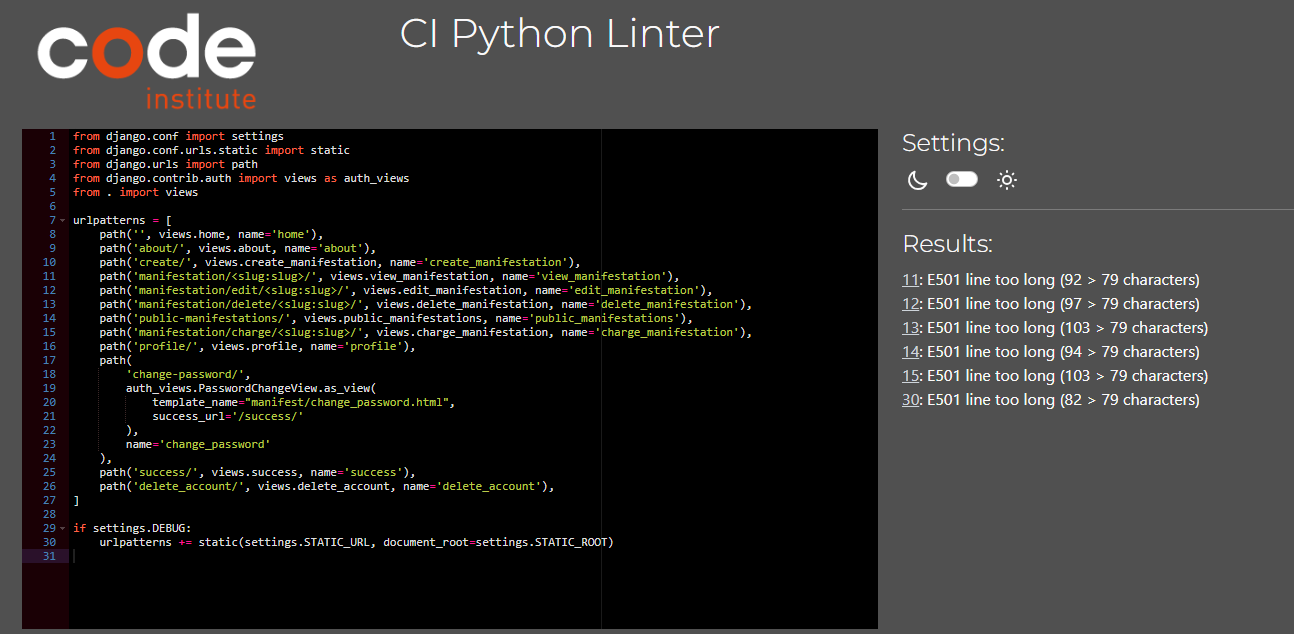
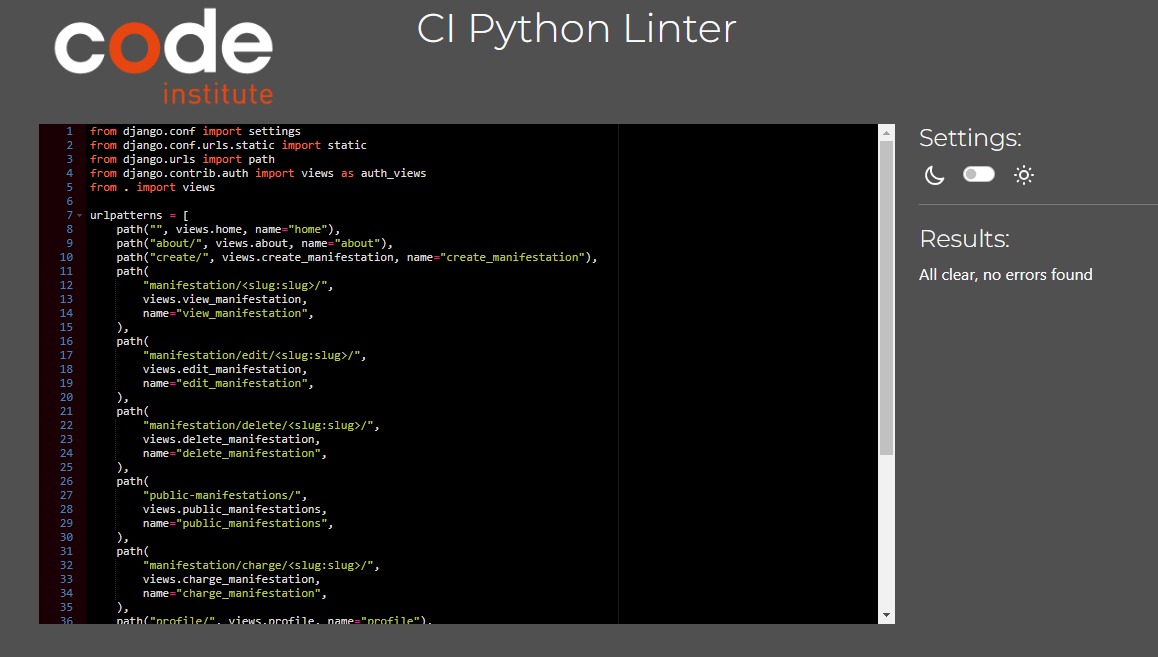
update testing.md

Changed region(s): [[0.0, 0.0, 0.9326, 1.0], [0.3109, 0.0, 0.6528, 0.0899]]

diff --git a/manifest/views.py b/manifest/views.py
@@ -11,126 +11,173 @@ from django.contrib.auth import get_user_model
 
 @login_required
 def home(request):
-    manifestations = Manifestation.objects.filter(
-        owner=request.user
-    ).order_by('created_on')
+    manifestations = Manifestation.objects.filter(owner=request.user).order_by(
+        "created_on"
+    )
 
     for manifestation in manifestations:
-        if manifestation.is_charged and timezone.now() > manifestation.last_charged + timedelta(hours=24):
+        if (
+            manifestation.is_charged
+            and timezone.now()
+            > manifestation.last_charged + timedelta(hours=24)
+        ):
             manifestation.is_charged = False
             manifestation.save()
-        if manifestation.last_charged and timezone.now() > manifestation.last_charged + timedelta(hours=12):
+        if (
+            manifestation.last_charged
+            and timezone.now()
+            > manifestation.last_charged + timedelta(hours=12)
+        ):
             manifestation.can_charge = True
             manifestation.save()
 
     context = {
-        'manifestations': manifestations,
+        "manifestations": manifestations,
     }
 
-    return render(request, 'manifest/home.html', context)
+    return render(request, "manifest/home.html", context)
 
 
 def about(request):
-    return render(request, 'about.html')
+    return render(request, "about.html")
 
 
 @login_required
 def create_manifestation(request):
-    if request.method == 'POST':
+    if request.method == "POST":
         form = ManifestationForm(request.POST)
         if form.is_valid():
             manifestation = form.save(commit=False)
             manifestation.owner = request.user
             manifestation.save()
-            return redirect('view_manifestation', slug=manifestation.slug)
+            return redirect("view_manifestation", slug=manifestation.slug)
     else:
         form = ManifestationForm()
     return render(
-        request, 'manifest/create_manifestation.html', {'form': form})
+        request, "manifest/create_manifestation.html", {"form": form}
+    )
 
 
 def view_manifestation(request, slug):
     manifestation = get_object_or_404(Manifestation, slug=slug)
 
-    if manifestation.owner != request.user and not (manifestation.is_public and manifestation.is_approved):
-        return render(request, 'manifest/forbidden.html')
+    if manifestation.owner != request.user and not (
+        manifestation.is_public and manifestation.is_approved
+    ):
+        return render(request, "manifest/forbidden.html")
 
-    if manifestation.is_charged and timezone.now() > manifestation.last_charged + timedelta(hours=24):
+    if (
+        manifestation.is_charged
+        and timezone.now() > manifestation.last_charged + timedelta(hours=24)
+    ):
         manifestation.is_charged = False
         manifestation.save()
-    if manifestation.last_charged and timezone.now() > manifestation.last_charged + timedelta(hours=12):
+    if (
+        manifestation.last_charged
+        and timezone.now() > manifestation.last_charged + timedelta(hours=12)
+    ):
         manifestation.can_charge = True
         manifestation.save()
     context = {
-        'manifestation': manifestation,
-        'next_charge_time': manifestation.next_charge_time()
+        "manifestation": manifestation,
+        "next_charge_time": manifestation.next_charge_time(),
     }
     return render(
-        request, 'manifest/view_manifestation.html', {'manifestation': manifestation})
+        request,
+        "manifest/view_manifestation.html",
+        {"manifestation": manifestation},
+    )
 
 
 @login_required
 def charge_manifestation(request, slug):
     manifestation = get_object_or_404(Manifestation, slug=slug)
-    if request.method == 'POST':
+    if request.method == "POST":
         manifestation.is_charged = True
         manifestation.can_charge = False
         manifestation.last_charged = timezone.now()
         manifestation.save()
-        return redirect('view_manifestation', slug=manifestation.slug)
+        return redirect("view_manifestation", slug=manifestation.slug)
     return render(
-        request, 'manifest/view_manifestation.html', {'manifestation': manifestation})
+        request,
+        "manifest/view_manifestation.html",
+        {"manifestation": manifestation},
+    )
 
 
 @login_required
 def edit_manifestation(request, slug):
     manifestation = get_object_or_404(Manifestation, slug=slug)
-    if request.method == 'POST':
+    if request.method == "POST":
         form = ManifestationForm(request.POST, instance=manifestation)
         if form.is_valid():
             manifestation.is_approved = False  # Set is_approved to False
             form.save()
             messages.add_message(
-                request, messages.SUCCESS, 'Your manifestation has been updated successfully. If it is set to public, it will be reviewed by an admin.')
-            return redirect('view_manifestation', slug=manifestation.slug)
+                request,
+                messages.SUCCESS,
+                "Your manifestation has been updated successfully. If public, it will be reviewed by an admin.",
+            )
+            return redirect("view_manifestation", slug=manifestation.slug)
     else:
         form = ManifestationForm(instance=manifestation)
-    return render(request, 'manifest/edit_manifestation.html', {'form': form, 'manifestation': manifestation})
+    return render(
+        request,
+        "manifest/edit_manifestation.html",
+        {"form": form, "manifestation": manifestation},
+    )
 
 
 @login_required
 def delete_manifestation(request, slug):
     manifestation = get_object_or_404(Manifestation, slug=slug)
-    if request.method == 'POST':
+    if request.method == "POST":
         manifestation.delete()
         messages.add_message(
-            request, messages.SUCCESS, 'Your manifestation has been deleted successfully.')
-        return redirect('home')  # Redirect to a different view after deletion
-    return render(request, 'manifest/delete_manifestation.html', {'manifestation': manifestation})
+            request,
+            messages.SUCCESS,
+            "Your manifestation has been deleted successfully.",
+        )
+        return redirect("home")  # Redirect to a different view after deletion
+    return render(
+        request,
+        "manifest/delete_manifestation.html",
+        {"manifestation": manifestation},
+    )
 
 
 def public_manifestations(request):
-    manifestations = Manifestation.objects.filter(is_public=True, is_approved=True)
-    return render(request, 'manifest/public_manifestations.html', {'manifestations': manifestations})
+    manifestations = Manifestation.objects.filter(
+        is_public=True, is_approved=True
+    )
+    return render(
+        request,
+        "manifest/public_manifestations.html",
+        {"manifestations": manifestations},
+    )
 
 
 def profile(request):
-    return render(request, 'manifest/profile.html')
+    return render(request, "manifest/profile.html")
 
 
 def change_password(request):
-    return render(request, 'manifest/change_password.html')
+    return render(request, "manifest/change_password.html")
 
 
 def success(request):
-    return render(request, 'manifest/success.html')
+    return render(request, "manifest/success.html")
 
 
 @login_required
 def delete_account(request):
-    if request.method == 'POST':
+    if request.method == "POST":
         user = request.user
         user.delete()
-        messages.add_message(request, messages.SUCCESS, 'Your account has been deleted successfully.')
-        return redirect('home')  # Redirect to home page after deletion
-    return render(request, 'manifest/delete_account_confirm.html')
+        messages.add_message(
+            request,
+            messages.SUCCESS,
+            "Your account has been deleted successfully.",
+        )
+        return redirect("home")  # Redirect to home page after deletion
+    return render(request, "manifest/delete_account_confirm.html")

diff --git a/manifest/urls.py b/manifest/urls.py
@@ -5,26 +5,48 @@ from django.contrib.auth import views as auth_views
 from . import views
 
 urlpatterns = [
-    path('', views.home, name='home'),
-    path('about/', views.about, name='about'),
-    path('create/', views.create_manifestation, name='create_manifestation'),
-    path('manifestation/<slug:slug>/', views.view_manifestation, name='view_manifestation'),
-    path('manifestation/edit/<slug:slug>/', views.edit_manifestation, name='edit_manifestation'),
-    path('manifestation/delete/<slug:slug>/', views.delete_manifestation, name='delete_manifestation'),
-    path('public-manifestations/', views.public_manifestations, name='public_manifestations'),
-    path('manifestation/charge/<slug:slug>/', views.charge_manifestation, name='charge_manifestation'),
-    path('profile/', views.profile, name='profile'),
+    path("", views.home, name="home"),
+    path("about/", views.about, name="about"),
+    path("create/", views.create_manifestation, name="create_manifestation"),
     path(
-        'change-password/',
+        "manifestation/<slug:slug>/",
+        views.view_manifestation,
+        name="view_manifestation",
+    ),
+    path(
+        "manifestation/edit/<slug:slug>/",
+        views.edit_manifestation,
+        name="edit_manifestation",
+    ),
+    path(
+        "manifestation/delete/<slug:slug>/",
+        views.delete_manifestation,
+        name="delete_manifestation",
+    ),
+    path(
+        "public-manifestations/",
+        views.public_manifestations,
+        name="public_manifestations",
+    ),
+    path(
+        "manifestation/charge/<slug:slug>/",
+        views.charge_manifestation,
+        name="charge_manifestation",
+    ),
+    path("profile/", views.profile, name="profile"),
+    path(
+        "change-password/",
         auth_views.PasswordChangeView.as_view(
             template_name="manifest/change_password.html",
-            success_url='/success/'
+            success_url="/success/",
         ),
-        name='change_password'
+        name="change_password",
     ),
-    path('success/', views.success, name='success'),
-    path('delete_account/', views.delete_account, name='delete_account'),
+    path("success/", views.success, name="success"),
+    path("delete_account/", views.delete_account, name="delete_account"),
 ]
 
 if settings.DEBUG:
-    urlpatterns += static(settings.STATIC_URL, document_root=settings.STATIC_ROOT)
+    urlpatterns += static(
+        settings.STATIC_URL, document_root=settings.STATIC_ROOT
+    )

diff --git a/testing.md b/testing.md
@@ -100,13 +100,13 @@
 - ![PEP8 screenshot](static/manifest/images/pixelwitch-urls.pyPEP8.png)
 - manifest/urls.py
 - ![PEP8 screenshot](static/manifest/images/manifest-urls.pyPEP8.png)
-- Lines 11, 12, 13, 14, 15, and 30 were considered too long by PEP8. These lines cannot be shortened in a way that improves readability. Even though error exists, the app still functions. 
 - account/urls.py
 - ![PEP8 screenshot](static/manifest/images/account-urls.pyPEP8.png)
 - account/views.py
 - ![PEP8 screenshot](static/manifest/images/account-views.pyPEP8.png)
 - manifest/views.py
-- ![PEP8 screenshot]()
+- ![PEP8 screenshot](static/manifest/images/manifest-views.pyPEP8.png)
+- Lines 119 was considered too long by PEP8. These line cannot be shortened in a way that improves readability as it is a massage string. Even though error exists, the app still functions. 
 - wsgi.py
 - ![PEP8 screenshot]()
 
